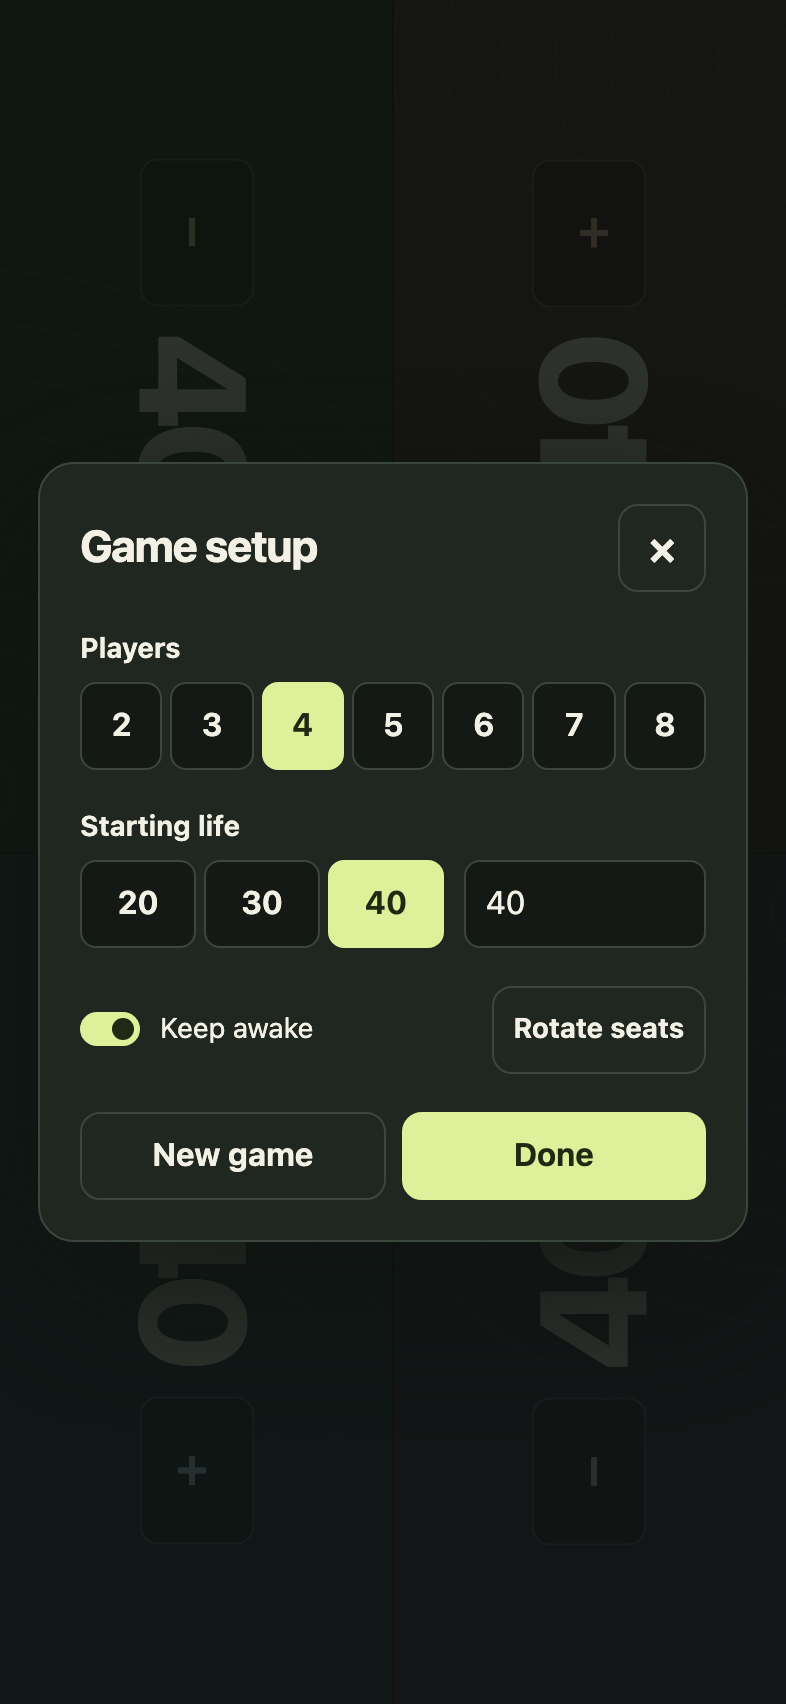
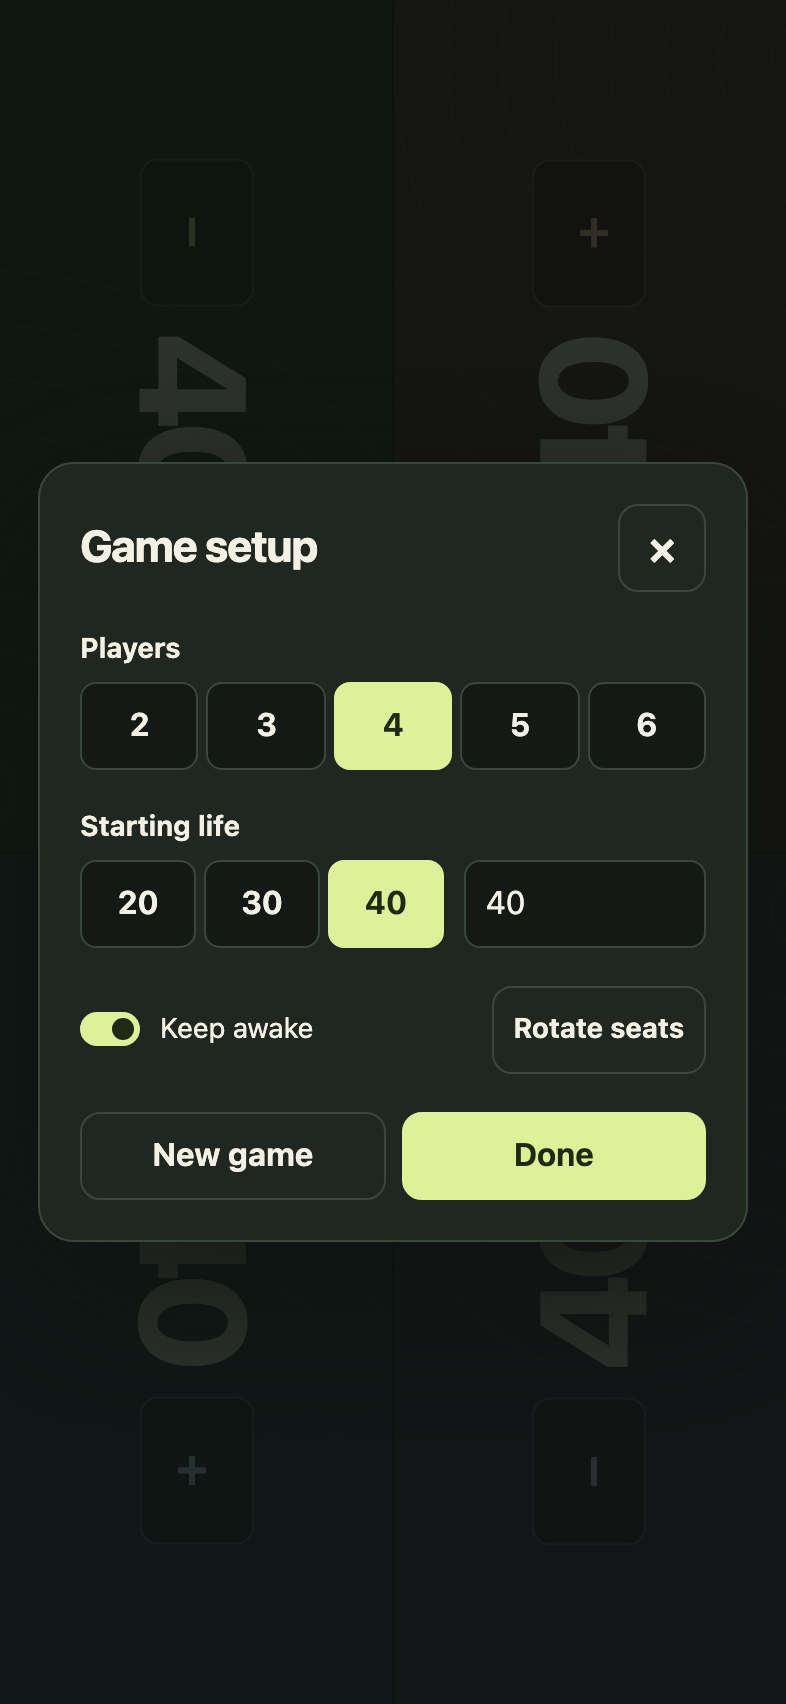
Cap LifePod at six players

diff --git a/web/styles.css b/web/styles.css
@@ -37,15 +37,13 @@ button:focus-visible, input:focus-visible { outline: 2px solid var(--accent); ou
 }
 .board[data-count="2"] { --columns: 1; }
 .board:where([data-count="5"], [data-count="6"]) { --rows: 3; }
-.board:where([data-count="7"], [data-count="8"]) { --rows: 4; }
-.board:where([data-count="3"], [data-count="5"], [data-count="7"]) .player:last-child { grid-column: 1 / -1; }
-.board[data-landscape="false"]:where([data-count="4"], [data-count="8"]) { grid-auto-flow: column; }
+.board:where([data-count="3"], [data-count="5"]) .player:last-child { grid-column: 1 / -1; }
+.board[data-landscape="false"][data-count="4"] { grid-auto-flow: column; }
 
 .board[data-landscape="true"] { --rows: 2; }
 .board[data-landscape="true"][data-count="2"] { --columns: 2; --rows: 1; }
 .board[data-landscape="true"]:where([data-count="5"], [data-count="6"]) { --columns: 3; }
-.board[data-landscape="true"]:where([data-count="7"], [data-count="8"]) { --columns: 4; }
-.board[data-landscape="true"]:where([data-count="3"], [data-count="5"], [data-count="7"]) .player:last-child {
+.board[data-landscape="true"]:where([data-count="3"], [data-count="5"]) .player:last-child {
   grid-column: -2 / -1;
   grid-row: 1 / -1;
 }
@@ -99,8 +97,6 @@ button:focus-visible, input:focus-visible { outline: 2px solid var(--accent); ou
 .player:nth-child(4) { --panel: #3a3148; --rim: #6c5880; --seat: #e4cff7; --button: #2d2538; }
 .player:nth-child(5) { --panel: #43391e; --rim: #786642; --seat: #f6de96; --button: #302810; }
 .player:nth-child(6) { --panel: #24413c; --rim: #466e64; --seat: #b4eddd; --button: #1a2f2b; }
-.player:nth-child(7) { --panel: #452f3c; --rim: #77536a; --seat: #f2c7e4; --button: #31222c; }
-.player:nth-child(8) { --panel: #373c3e; --rim: #656f71; --seat: #d7e6e9; --button: #272d2e; }
 
 .player-face {
   --control-size: clamp(44px, 18cqi, 74px);

diff --git a/web/app.js b/web/app.js
@@ -23,9 +23,8 @@ const seatEdges = {
   4: [['left', 'left', 'right', 'right'], ['top', 'top', 'bottom', 'bottom']],
   5: [['top', 'top', 'bottom', 'bottom', 'bottom'], ['top', 'top', 'bottom', 'bottom', 'right']],
   6: [['top', 'top', 'bottom', 'bottom', 'bottom', 'bottom'], ['top', 'top', 'top', 'bottom', 'bottom', 'bottom']],
-  7: [['top', 'top', 'top', 'top', 'bottom', 'bottom', 'bottom'], ['top', 'top', 'top', 'bottom', 'bottom', 'bottom', 'right']],
-  8: [['left', 'left', 'left', 'left', 'right', 'right', 'right', 'right'], ['top', 'top', 'top', 'top', 'bottom', 'bottom', 'bottom', 'bottom']],
 };
+const playerCounts = Object.keys(seatEdges).map(Number);
 
 let game = loadGame();
 let selectedPlayerCount = game.scores.length;
@@ -40,7 +39,7 @@ function loadGame() {
   try {
     const snapshot = android ? android.readGame() : ios ? window.initialGame : localStorage.getItem(storageKey);
     const saved = JSON.parse(snapshot);
-    if (!saved || !Array.isArray(saved.scores) || saved.scores.length < 2 || saved.scores.length > 8 ||
+    if (!saved || !Array.isArray(saved.scores) || !playerCounts.includes(saved.scores.length) ||
         !saved.scores.every(Number.isSafeInteger) || !Number.isSafeInteger(saved.startingLife) || saved.startingLife < 1) {
       return defaults;
     }
@@ -234,7 +233,7 @@ function renderSetup() {
   startingLifeInput.removeAttribute('aria-describedby');
 }
 
-for (let count = 2; count <= 8; count += 1) {
+for (const count of playerCounts) {
   const choice = document.createElement('button');
   choice.type = 'button';
   choice.value = count;

diff --git a/README.md b/README.md
@@ -19,10 +19,10 @@ A fresh install opens with four players at 40 life. Tap **−** or **+** to adju
 
 <div align="center">
 <a href="screenshots/board.png"><img src="screenshots/board.png" width="180" alt="Four-player portrait board with two seats facing each long side" /></a>
-<a href="screenshots/eight-players.png"><img src="screenshots/eight-players.png" width="180" alt="Eight-player portrait board with four seats facing each long side" /></a>
+<a href="screenshots/six-players.png"><img src="screenshots/six-players.png" width="180" alt="Six-player board" /></a>
 <a href="screenshots/setup.png"><img src="screenshots/setup.png" width="180" alt="Setup for player count, starting life, screen awake, and seat rotation" /></a>
 <br />
-<sub>Four players · Eight players · Setup</sub>
+<sub>Four players · Six players · Setup</sub>
 </div>
 
 <div align="center">
@@ -35,9 +35,9 @@ A fresh install opens with four players at 40 life. Tap **−** or **+** to adju
 
 ## At the table
 
-Set the phone in the middle of the table. With four or eight players, seats face the phone’s two long sides, with **−** and **+** on either side of each total. With three, five, or seven players, one seat spans two slots so the board still fills the screen.
+Set the phone in the middle of the table. With four players, seats face the phone’s two long sides, with **−** and **+** on either side of each total. With three or five players, one seat spans two slots so the board still fills the screen.
 
-Tap the sliders in the center to choose 2–8 players, set the starting life, restart, or toggle **Keep awake**. Changing the player count or starting life starts a new game. **Keep awake** is on by default. Scores and settings are saved between launches.
+Tap the sliders in the center to choose 2–6 players, set the starting life, restart, or toggle **Keep awake**. Changing the player count or starting life starts a new game. **Keep awake** is on by default. Scores and settings are saved between launches.
 
 Choose **Rotate seats** in Setup, then tap a tile to turn it 90° clockwise. Tap the center check mark when finished. Rotation choices carry over when restarting with the same player count.
 
